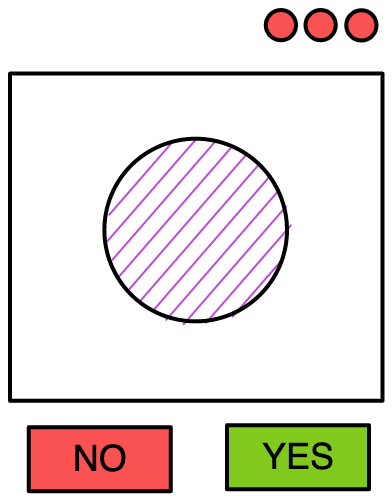
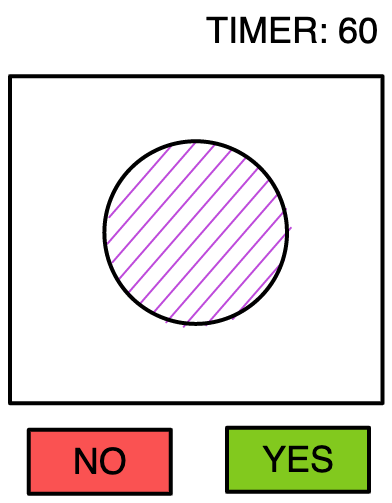
docs: improve

diff --git a/docs/gamedesign/img/minigame_fast_reaction.excalidraw2.md b/docs/gamedesign/img/minigame_fast_reaction.excalidraw2.md
@@ -12,6 +12,8 @@ NO ^3JXJUcb6
 
 YES ^fEOglHHL
 
+TIMER: 60 ^RrPf8s28
+
 %%
 # Drawing
 ```json
@@ -21,78 +23,78 @@ YES ^fEOglHHL
 	"source": "https://excalidraw.com",
 	"elements": [
 		{
-			"id": "F1TYSaIAdBabI8kFjsiRd",
 			"type": "rectangle",
-			"x": -152.453125,
-			"y": -235.20703125,
-			"width": 372.609375,
-			"height": 327.17578125,
-			"angle": 0,
-			"strokeColor": "#000000",
-			"backgroundColor": "transparent",
-			"fillStyle": "hachure",
-			"strokeWidth": 4,
-			"strokeStyle": "solid",
-			"roughness": 0,
-			"opacity": 100,
-			"groupIds": [],
-			"strokeSharpness": "sharp",
-			"seed": 1717177268,
 			"version": 308,
 			"versionNonce": 1954258356,
 			"isDeleted": false,
-			"boundElements": null,
-			"updated": 1670507019077,
-			"link": null,
-			"locked": false
-		},
-		{
-			"id": "BWf5_g3nuHCGHSBBJtSn7",
-			"type": "ellipse",
-			"x": -58.09375,
-			"y": -170.109375,
-			"width": 182.66796875,
-			"height": 182.66796875,
-			"angle": 0,
-			"strokeColor": "#000000",
-			"backgroundColor": "#be4bdb",
+			"id": "F1TYSaIAdBabI8kFjsiRd",
 			"fillStyle": "hachure",
 			"strokeWidth": 4,
 			"strokeStyle": "solid",
 			"roughness": 0,
 			"opacity": 100,
+			"angle": 0,
+			"x": -152.453125,
+			"y": -235.20703125,
+			"strokeColor": "#000000",
+			"backgroundColor": "transparent",
+			"width": 372.609375,
+			"height": 327.17578125,
+			"seed": 1717177268,
 			"groupIds": [],
 			"strokeSharpness": "sharp",
-			"seed": 594128564,
-			"version": 257,
-			"versionNonce": 1490896780,
-			"isDeleted": false,
-			"boundElements": null,
+			"boundElements": [],
 			"updated": 1670507019077,
 			"link": null,
 			"locked": false
 		},
 		{
-			"id": "W14iqfZVitmngA9F-wx0h",
-			"type": "rectangle",
-			"x": -133.60546875,
-			"y": 118.41015625,
-			"width": 142,
-			"height": 64,
+			"type": "ellipse",
+			"version": 257,
+			"versionNonce": 1490896780,
+			"isDeleted": false,
+			"id": "BWf5_g3nuHCGHSBBJtSn7",
+			"fillStyle": "hachure",
+			"strokeWidth": 4,
+			"strokeStyle": "solid",
+			"roughness": 0,
+			"opacity": 100,
 			"angle": 0,
+			"x": -58.09375,
+			"y": -170.109375,
 			"strokeColor": "#000000",
-			"backgroundColor": "#fa5252",
+			"backgroundColor": "#be4bdb",
+			"width": 182.66796875,
+			"height": 182.66796875,
+			"seed": 594128564,
+			"groupIds": [],
+			"strokeSharpness": "sharp",
+			"boundElements": [],
+			"updated": 1670507019077,
+			"link": null,
+			"locked": false
+		},
+		{
+			"type": "rectangle",
+			"version": 179,
+			"versionNonce": 606455604,
+			"isDeleted": false,
+			"id": "W14iqfZVitmngA9F-wx0h",
 			"fillStyle": "solid",
 			"strokeWidth": 4,
 			"strokeStyle": "solid",
 			"roughness": 0,
 			"opacity": 100,
+			"angle": 0,
+			"x": -133.60546875,
+			"y": 118.41015625,
+			"strokeColor": "#000000",
+			"backgroundColor": "#fa5252",
+			"width": 142,
+			"height": 64,
+			"seed": 41583884,
 			"groupIds": [],
 			"strokeSharpness": "sharp",
-			"seed": 41583884,
-			"version": 179,
-			"versionNonce": 606455604,
-			"isDeleted": false,
 			"boundElements": [
 				{
 					"type": "text",
@@ -104,37 +106,37 @@ YES ^fEOglHHL
 			"locked": false
 		},
 		{
-			"id": "3JXJUcb6",
 			"type": "text",
-			"x": -90.60546875,
-			"y": 129.41015625,
-			"width": 56,
-			"height": 42,
-			"angle": 0,
-			"strokeColor": "#000000",
-			"backgroundColor": "#fa5252",
+			"version": 103,
+			"versionNonce": 1868854796,
+			"isDeleted": false,
+			"id": "3JXJUcb6",
 			"fillStyle": "solid",
 			"strokeWidth": 4,
 			"strokeStyle": "solid",
 			"roughness": 0,
 			"opacity": 100,
+			"angle": 0,
+			"x": -90.60546875,
+			"y": 129.41015625,
+			"strokeColor": "#000000",
+			"backgroundColor": "#fa5252",
+			"width": 56,
+			"height": 42,
+			"seed": 1363904308,
 			"groupIds": [],
 			"strokeSharpness": "sharp",
-			"seed": 1363904308,
-			"version": 103,
-			"versionNonce": 1868854796,
-			"isDeleted": false,
-			"boundElements": null,
+			"boundElements": [],
 			"updated": 1670507019077,
 			"link": null,
 			"locked": false,
-			"text": "NO",
-			"rawText": "NO",
 			"fontSize": 36,
 			"fontFamily": 2,
+			"text": "NO",
+			"rawText": "NO",
+			"baseline": 33,
 			"textAlign": "center",
 			"verticalAlign": "middle",
-			"baseline": 33,
 			"containerId": "W14iqfZVitmngA9F-wx0h",
 			"originalText": "NO"
 		},
@@ -190,7 +192,7 @@ YES ^fEOglHHL
 			"seed": 1920318732,
 			"groupIds": [],
 			"strokeSharpness": "sharp",
-			"boundElements": null,
+			"boundElements": [],
 			"updated": 1670507019077,
 			"link": null,
 			"locked": false,
@@ -205,82 +207,39 @@ YES ^fEOglHHL
 			"originalText": "YES"
 		},
 		{
-			"id": "xBdcwu1AYDGqF929L6GiT",
-			"type": "ellipse",
-			"x": 183.8671875,
-			"y": -298.5625,
-			"width": 30.1953125,
-			"height": 30.1953125,
-			"angle": 0,
-			"strokeColor": "#000000",
-			"backgroundColor": "#fa5252",
-			"fillStyle": "solid",
-			"strokeWidth": 4,
-			"strokeStyle": "solid",
-			"roughness": 0,
-			"opacity": 100,
-			"groupIds": [],
-			"strokeSharpness": "sharp",
-			"seed": 423878668,
-			"version": 91,
-			"versionNonce": 804520500,
+			"type": "text",
+			"version": 213,
+			"versionNonce": 300759732,
 			"isDeleted": false,
-			"boundElements": null,
-			"updated": 1670507079107,
-			"link": null,
-			"locked": false
-		},
-		{
-			"type": "ellipse",
-			"version": 138,
-			"versionNonce": 1226901260,
-			"isDeleted": false,
-			"id": "ufM_g-lyZQq10bcueba8-",
+			"id": "RrPf8s28",
 			"fillStyle": "solid",
 			"strokeWidth": 4,
 			"strokeStyle": "solid",
 			"roughness": 0,
 			"opacity": 100,
 			"angle": 0,
-			"x": 143.12890625,
-			"y": -298.82421875,
+			"x": 121.537109375,
+			"y": -293.56915283203125,
 			"strokeColor": "#000000",
 			"backgroundColor": "#fa5252",
-			"width": 30.1953125,
-			"height": 30.1953125,
-			"seed": 2062248716,
+			"width": 98,
+			"height": 23,
+			"seed": 1411510156,
 			"groupIds": [],
 			"strokeSharpness": "sharp",
-			"boundElements": null,
-			"updated": 1670507082066,
+			"boundElements": [],
+			"updated": 1670510016036,
 			"link": null,
-			"locked": false
-		},
-		{
-			"type": "ellipse",
-			"version": 202,
-			"versionNonce": 405738892,
-			"isDeleted": false,
-			"id": "-E6cRykmjiLgVK3oCt4GV",
-			"fillStyle": "solid",
-			"strokeWidth": 4,
-			"strokeStyle": "solid",
-			"roughness": 0,
-			"opacity": 100,
-			"angle": 0,
-			"x": 103.3828125,
-			"y": -298.77734375,
-			"strokeColor": "#000000",
-			"backgroundColor": "#fa5252",
-			"width": 30.1953125,
-			"height": 30.1953125,
-			"seed": 446676916,
-			"groupIds": [],
-			"strokeSharpness": "sharp",
-			"boundElements": null,
-			"updated": 1670507085523,
-			"link": null,
-			"locked": false
+			"locked": false,
+			"fontSize": 20,
+			"fontFamily": 2,
+			"text": "TIMER: 60",
+			"rawText": "TIMER: 60",
+			"baseline": 19,
+			"textAlign": "left",
+			"verticalAlign": "top",
+			"containerId": null,
+			"originalText": "TIMER: 60"
 		}
 	],
 	"appState": {
@@ -294,15 +253,15 @@ YES ^fEOglHHL
 		"currentItemRoughness": 0,
 		"currentItemOpacity": 100,
 		"currentItemFontFamily": 2,
-		"currentItemFontSize": 36,
+		"currentItemFontSize": 20,
 		"currentItemTextAlign": "left",
 		"currentItemStrokeSharpness": "sharp",
 		"currentItemStartArrowhead": null,
 		"currentItemEndArrowhead": "arrow",
-		"scrollX": 455.25,
-		"scrollY": 417.35546875,
+		"scrollX": 250.6796875,
+		"scrollY": 389.14007568359375,
 		"zoom": {
-			"value": 1
+			"value": 1.6
 		},
 		"currentItemLinearStrokeSharpness": "round",
 		"gridSize": null,

diff --git a/docs/gamedesign/minigame_fast_reaction.md b/docs/gamedesign/minigame_fast_reaction.md
@@ -8,6 +8,7 @@ was the previous image the same as this one?
 a fast game about recognising shapes
 
 **Skills**
+- Speed
 - Short-Term Memory
 - Visual Short-Term Memory
 - Inhibition
@@ -20,6 +21,7 @@ automatic speed (always faster)
 high score
 
 **UI**  
+- timer
 - 12 simple images
 - two buttons
 
@@ -28,11 +30,12 @@ high score
 
 **Gameplay:**
 - START popup
+- timer to 60 seconds
 - a random image is show
-- you tap: YES if it the same as previous one, no if different
+- you tap: YES if it the same as previous one,  NO if different
+- if correct, ok. if wrong, you lose 5 seconds
+- if you make 10 good in a row, you increate time by 5 seconds.
 - a new image is shown
-- always faster
-- you can make up to 3 errors
+- always a bit faster
+- the game ends when timer goes to 0
 - each image is a point
-
-

diff --git a/docs/resources/cognitive-skills-glossary.md b/docs/resources/cognitive-skills-glossary.md
@@ -1,6 +1,6 @@
 
 # Cognitive skills glossary 
-![](../assets/img/brain-skills.jpg)
+![](../assets/img/brain-skills.webp)
 ## Attention
 ### Focused Attention
 The ability to focus attention on a single stimulus
